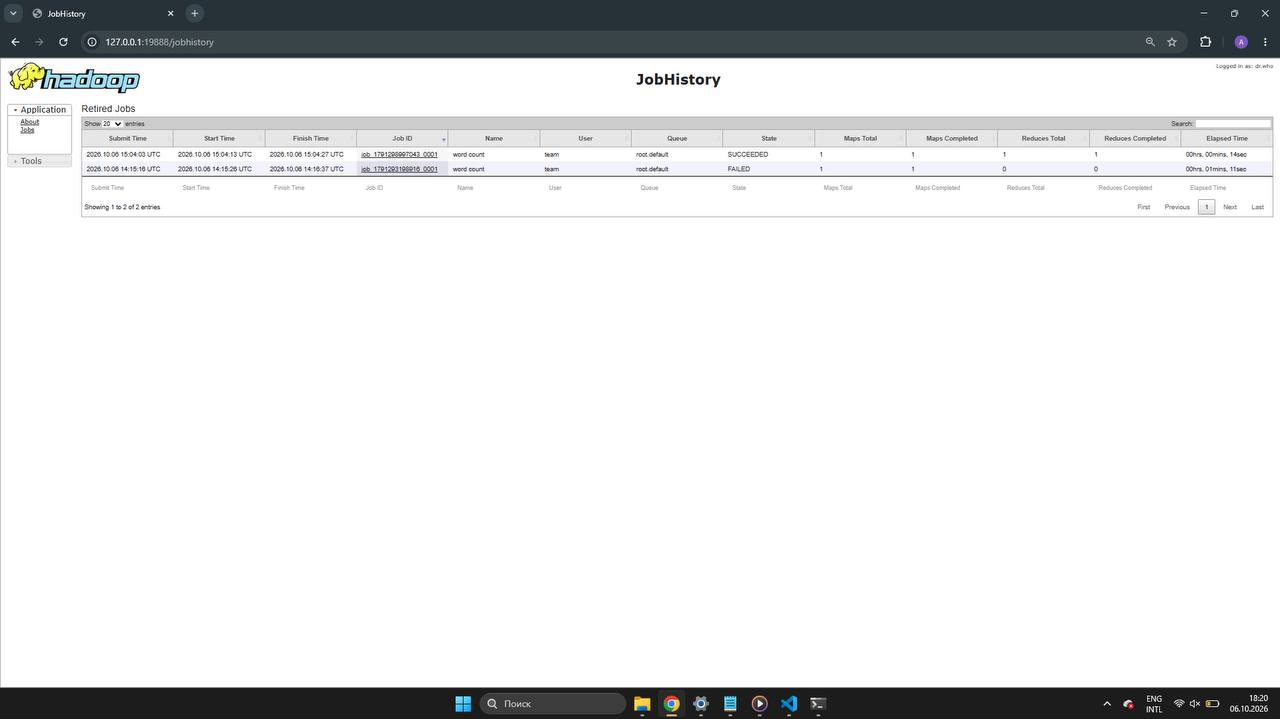
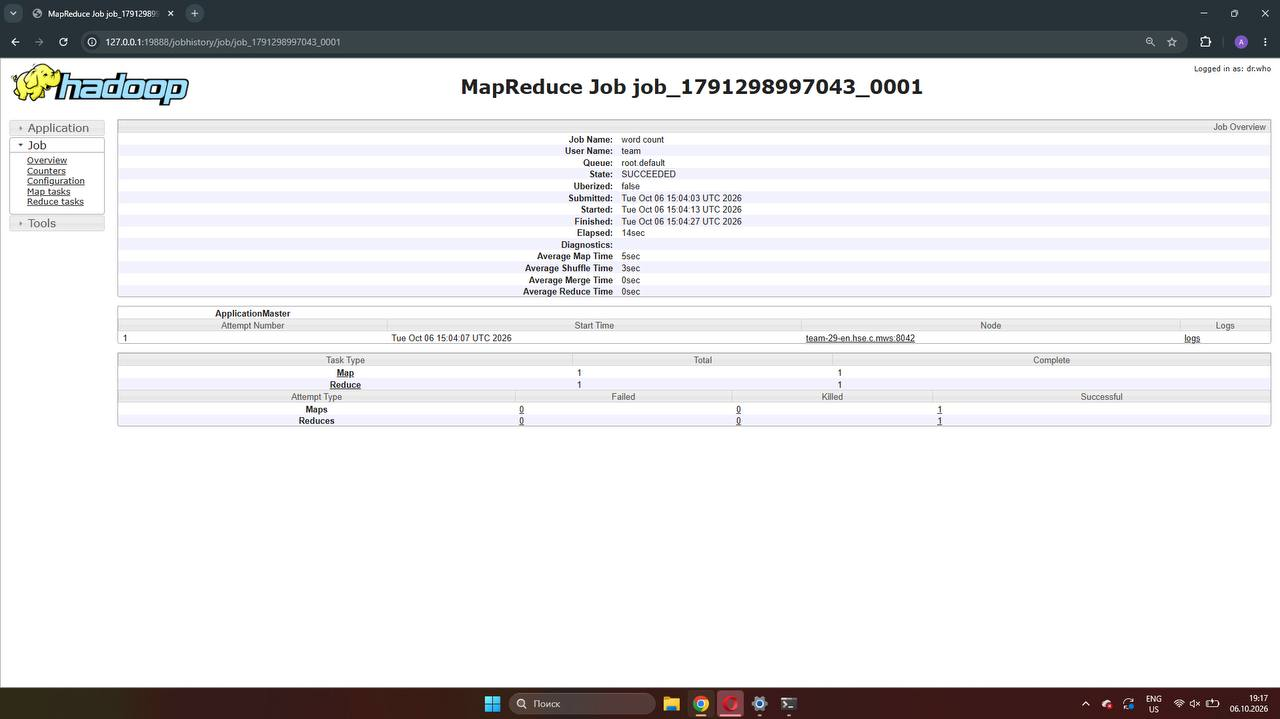
Update HW2 documentation

diff --git a/hw2/README.md b/hw2/README.md
@@ -101,7 +101,7 @@ bash scripts/deploy.sh
 
 `deploy.sh` проверяет существующий Hadoop 3.4.2, копирует настройки YARN и MapReduce на четыре узла, создает рабочие каталоги и настраивает разрешение имен на трех NodeManager. На edge устанавливается nginx, если его еще нет. Конфигурация nginx проверяется через `nginx -t`; при ошибке обновления восстанавливается предыдущий файл.
 
-Затем скрипт перезапускает ResourceManager, JobHistoryServer и три NodeManager. Повторное развертывание нужно выполнять после завершения текущих задач. Процессы HDFS продолжают работать.
+Затем скрипт перезапускает ResourceManager, JobHistoryServer и три NodeManager. Процессы HDFS продолжают работать.
 
 ## Запуск и остановка
 
@@ -172,8 +172,6 @@ ssh -N \
 - NodeManager team-29-00: [http://localhost:18043/node](http://localhost:18043/node);
 - NodeManager team-29-01: [http://localhost:18044/node](http://localhost:18044/node).
 
-Внутренние ссылки между UI могут вести на hostname узла. Для NodeManager можно использовать отдельные адреса из списка выше.
-
 ## Результат
 
 В сохраненных результатах проверки от 6 октября 2026 года:
@@ -219,7 +217,7 @@ Output: /user/team/hw2/check-20261006T150353-tmp.ikUBRW5J1B/output
 
 ![JobHistoryServer](screenshots/job-history.jpg)
 
-В истории есть успешный wordcount с одной завершенной map-задачей и одной reduce-задачей.
+На странице видно успешно завершенный MapReduce job со статусом `SUCCEEDED`, одной map-задачей и одной reduce-задачей.
 
 ### NodeManager team-29-en
 
